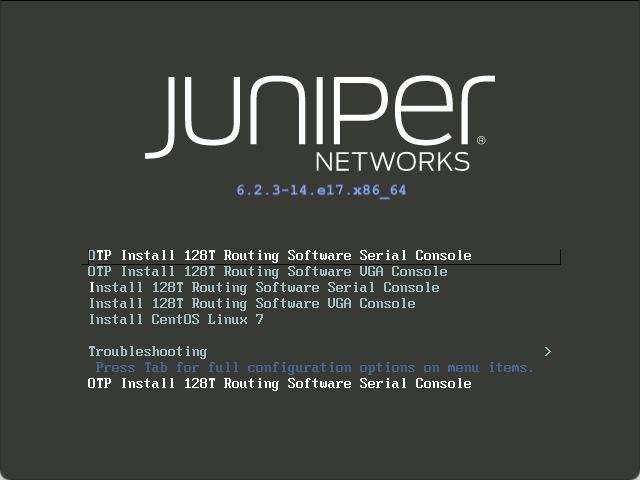
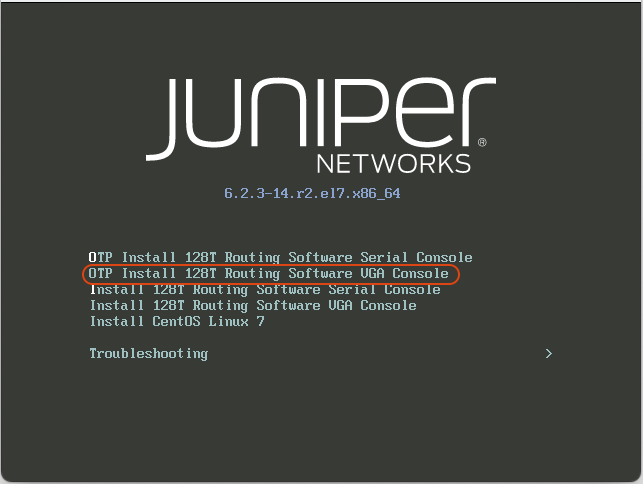
draft versions of install docs

diff --git a/docs/cc_fips_router_install.md b/docs/cc_fips_router_install.md
@@ -5,7 +5,7 @@ sidebar_label: Router Installation - FIPS
 
 This process assumes you have already created a bootable device using a USB. Instructions for downloading and creating a bootable device are available in [Downloading an SSR ISO](intro_downloading_iso.md) and [Creating a Bootable USB](intro_creating_bootable_usb.md).
 
-The steps in this section describe the *interactive router installation* from the packaged-based ISO. The section [Initialize the Router](#initialize-the-router-node) describes using the Initializer to configure the system as a Router after installing from the Interactive ISO.
+The steps in this section describe the OTP Installation with FIPS mode enabled, from the packaged-based ISO. 
 
 :::note
 The Conductor installation must be completed before installing a Session Smart Router or routers using the ISO. The same ISO is used for both installations.
@@ -17,11 +17,123 @@ The Conductor installation must be completed before installing a Session Smart R
 - Verify that the boot priority of the USB drive is properly listed in the system BIOS.
 - Local console connectivity to the device/VM. 
 
-## FIPS Mode
+## OTP Router Installation
+
+The simplest deployment of the OTP solution is highly automated and leverages just two components, the Conductor and at least one SSR. For many customers, the SSR platform is ordered and delivered as a pre-integrated, off-the-shelf solution through the Juniper SSR partner network. An image leveraging QuickStart provisioning can also be deployed into a VM or cloud environment, though consideration must be made to the mechanism of injecting the file. Virtual environments may be better suited for cloud automation tools to assist in automated, dynamic deployment.
+
+The OTP installation process produces a Router installed with SSR software set to factory defaults. Upon completing the OTP installation process, the default behavior is to provision the device to be configured with a DHCP client on the first ethernet port and DHCP server listening on all other ports. A user then connects to the SSR via ethernet cable and use the QuickStart file generated by the Conductor to finalize the SSR configuration. After performing the QuickStart operation, the SSR will have connectivity to its Conductor and can download the latest configuration (if necessary) and begin operation. These defaults [can be changed](#quickstart-location) to suit your needs.
+
+## QuickStart Provisioning
+Basic configuration parameters are encoded within an encrypted file. For each node, a custom file can be exported from the Conductor and minimally contains the following configuration encoded parameters:
+- WAN IP address, subnet mask and gateway
+- Conductor IP address
+- Asset ID
+
+## Before you Begin
+
+Before beginning the Router installation, you must have a Conductor operationally deployed and reachable by the router.
+
+This diagram is one possible topology for a standalone SSR deployed at the edge of the network.
+
+![QuickStart network diagram](/img/intro_ztp_quickstart_network_diagram.png)
+
+Not all hardware has video support. Booting to the serial console 115200 baud is the default, and is automatically selected after 30 seconds. When using the serial console, the terminal size is 80x25 - anything smaller may result in abnormal navigation behavior.
+
+Selecting the wrong type of console (Serial or VGA) may result in garbled characters being displayed, and if left to continue will result in an incorrect installation. If the wrong console is selected, reboot the target system and select the correct line for the target hardware.
+
+#### SSR System via Serial Console
+
+Use this option when running on hardware with no video chipset. It uses `/dev/ttyS0` 115200 baud as the serial console for interacting with the installer. For serial console issues please refer to [Serial Console Troubleshooting](intro_installation_bootable_media.mdx#serial-console-troubleshooting).
+
+#### SSR System with VGA Console
+
+Use this option when running on hardware that has onboard graphics chipsets. This installs the SSR using the GUI installer.
+
+## Installation with FIPS Mode 
+
+To enable FIPS Enforcement and install the Router using the OTP workflow add the `fips=1` kernel option to the kernel command line during system installation as shown in the steps below. This ensures that key generation is done with FIPS approved algorithms and continuous monitoring tests in place.
+
+1. Use the up/down keys to highlight the desired install mode - use **OTP Install 128T Routing Software VGA Console**. 
+
+  ![Bios Install](/img/cc_fips_BIOSinstall_1.png)
+
+2. Press TAB to edit the configuration.
+
+3. Add `fips=1` to the end of the `vmlinuz` parameters.
+
+  ![FIPS Parameter](/img/ccfips_BIOSinstall_2.png)
+
+4. Press Enter to start the install. 
+
+### SSR Installation
+
+This installation process is an automated workflow which does not require user interaction after selecting and initiating the OTP menu option. The system will power off after installation.
+
+### Bootstrapping
+
+After the initial installation and poweroff, the system is generic - it has no specific configuration. Once the platform is started again, an automated script performs bootstrapping of the platform. This script is a single run service unit that executes **once** during the first bootup, and automatically performs the following steps:
+
+#### 1. Configure Hostname and Salt Minion Identifier
+
+The hostname and salt minion identifier are set to the same value during the bootstrapping process.
+
+If the system serial number is provisioned (seen by `dmidecode --string system-serial-number`) this value will be used. Otherwise use the first MAC address found in the format of: `mac-<address>`
+
+#### 2. Configure the SSR and Network Interfaces
+
+The Bootstrapper sets the SSR configuration via the QuickStart file found in one of the following locations:
+
+- The root of an attached USB drive. i.e. `/bootstrap.quickstart`. The USB drive MUST be named "BOOTSTRAP" in all caps.
+
+- In `/etc/128technology/bootstrap.quickstart`.
+
+If no file source is present in either location, the Bootstrapper executes HTTP GET requests to the following endpoints to download the QuickStart File from a server. The REST response is explained in [REST details](#quickstart-file-via-rest).
+    1. `http://quickstart.128t-bootstrap.local/quickstart/<identifier>`
+    2. `http://192.168.128.128/quickstart/<identifier>`
+
+The `<identifier>` is the minion-id as determined by the algorithm discussed in [Configure Hostname and Salt Minion Identifier](#configure-hostname-and-salt-minion-identifier). Typically, it is the system serial number.
+
+If none of the above are successful, the OTP defaults are used. This configures the DHCP client on the first ethernet port and a DHCP server listening on all other ports.
+
+#### 3. Enable the SSR and Salt-Minion Service
+
+The quickstart file configures and enables the SSR and the associated salt-minion service.
+
+#### 4. Write a Result Report
+
+Once the platform is rebooted after bootstrapping, the bootstrap validation report can be found at the root filesystem (`/root/128T-bootstrap.txt`) containing details about the steps taken. The `/root/128T-bootstrap.json` file contains the same information in JSON format. The report contains a message that includes additional details for each step.
+
+Shown below is the location of the bootstrap report as well as an example of the contents.
+```
+[root@sn123456789 ~]# cat /root/128T-bootstrap.txt
++--------------------+--------+---------------------------------+
+| Label              | Result | Message                         |
++--------------------+--------+---------------------------------+
+| Minion ID          | True   | mac-000000                      |
+| Hostname           | True   | mac-000000                      |
+| Clock Sync         | True   |                                 |
+| Initialize 128T    | True   | node.Router                     |
+| Enable 128T        | True   |                                 |
+| Enable salt-minion | True   |                                 |
+| Factory Defaults   | True   | http://192.168.0.100/quickstart |
+| Ifgcfg files       | True   |                                 |
++--------------------+--------+---------------------------------+
+```
+
+#### 5. Reboot
+
+After reboot, the SSR service will be configured and running.
+
+:::info
+It is important to note that after the OS installation the dhclient is configured across all network interfaces until the platform has completed Bootstrapping.
+:::
+
+
+<!---## FIPS Mode
 
 Use this process to install a FIPS-compliant SSR Conductor. 
 
-To enable FIPS Enforcement for SSR software version 6.2.3-14R2, add the `fips=1` kernel option  to the kernel command line during system installation as shown in the steps below. This ensures that key generation is done with FIPS approved algorithms and continuous monitoring tests in place.
+To enable FIPS Enforcement for SSR software version 6.2.3-14R2, add the `fips=1` kernel option to the kernel command line during system installation as shown in the steps below. This ensures that key generation is done with FIPS approved algorithms and continuous monitoring tests in place.
 
 
 Use the following procedure to enable FIPS enforcement.
@@ -101,4 +213,5 @@ The SSR Initializer tunes your operating system, prepares the platform to run th
 
   :::note
   A system reboot is required.
-  :::
+  :::---->
+

diff --git a/docs/cc_fips_conductor_install.md b/docs/cc_fips_conductor_install.md
@@ -25,7 +25,7 @@ Upon boot, the following screen is displayed. The default selection is booting t
 
 To install using the Interactive Installation, use the arrow keys to select either `Install 128T Routing Software Serial Console` or **`Install 128T Routing Software VGA Console`**. As noted earlier, this guide describes the Conductor installation process using the Interactive Installation, specifically using the VGA console.
 
-![VGA Boot with Interactive Install](/img/cc_install_select_interactive.png)
+![VGA Boot with Interactive Install](/img/cc_install_conductor_interactive.png)
 
 :::note
 Because not all hardware has video support, booting to the serial console 115200 baud is the default, and is automatically selected after 30 seconds. When using the serial console, the terminal size is 80x25 - anything smaller may result in abnormal navigation behavior.
@@ -37,8 +37,6 @@ Selecting the wrong type of console (Serial or VGA) may result in garbled charac
 
 Use this option when running on hardware with no video chipset. It uses `/dev/ttyS0` 115200 baud as the serial console for interacting with the installer. 
 
-![Serial Install Selection](/img/install_select_interactive2.png)
-
 For serial console issues please refer to [Serial Console Troubleshooting](ts_serial_console_tsing.md).
 
 #### Install via VGA Console
@@ -49,16 +47,11 @@ The procedure that follows here is the **Interactive Install on the VGA Console*
 
 ## FIPS Mode
 
-Use this process to install a FIPS-compliant SSR Conductor. 
-
 To enable FIPS Enforcement for SSR software version 6.2.3-14R2, add the `fips=1` kernel option  to the kernel command line during system installation as shown in the steps below. This ensures that key generation is done with FIPS approved algorithms and continuous monitoring tests in place.
-
-
-Use the following procedure to enable FIPS enforcement.
 
 1. Use up/down keys to highlight the desired install mode. 
 
-  ![Bios Install](/img/cc_fips_BIOSinstall_1.png)
+  ![Bios Install](/img/cc_install_conductor_interactive.png)
 
 2. Press TAB to edit the configuration.
 
@@ -66,7 +59,19 @@ Use the following procedure to enable FIPS enforcement.
 
   ![FIPS Parameter](/img/ccfips_BIOSinstall_2.png)
 
-4. Press Enter to start the install. 
+4. Press Enter to start the install.
+
+### Serial Console
+
+1. Use up/down keys to highlight the desired install mode. 
+
+  ![Serial Install Selection](/img/install_serial_conductor_interactive1.png)
+
+2. For FIPS press `e` to edit and append `fips=1`.
+
+  ![FIPS Parameter](/img/cc_fips_serial_conductor.png)
+
+3. Press Enter to start the install. 
 
 ## Conductor Installation 
 

diff --git a/docs/cc_fips_intro.md b/docs/cc_fips_intro.md
@@ -10,11 +10,11 @@ The focus of this document is to provide the required configuration steps to ins
 For compliance, the following considerations must be made:
 - All installation and configuration procedures must be performed from the PCLI; use of the GUI is not part of the approved use case.
 - FIPS mode must be enabled **during installation**.
-- Only the OTP Installation and upgrade processes have been tested for compliance. Use of other methods of install or upgrade do not fit with the compliance model. 
+- Only the OTP Router Installation and upgrade processes have been tested for compliance. Use of other methods for installing or upgrading a router do not fit with the compliance model. 
 - When installing a router, the [IPv4 Option Filter](cc_fips_sec_firewall_filtering.md#ipv4-option-filtering) must be set to `drop-all`.
 - When installing a router, the [ICMP Session Match](cc_fips_sec_firewall_filtering.md#from-the-command-line) must be set to `identifier-and-type`.
-- Configuring the TCP Half-Open Connections Limit for firewall.
-- Configuring the umber of permitted login attempts per user.
+- Configure the [TCP Half-Open Connections Limit](cc_fips_sec_firewall_filtering.md#tcp-half-open-connection-limit) for firewall.
+- Configure the number of [permitted login attempts](config_access_mgmt.md#limiting-login-attempts) per user.
 
 For the compliant installation process and configuration parameters please refer to the specific [Conductor](cc_fips_conductor_install.md) or [Router](cc_fips_router_install.md) Installation and Configuration procedure.
 
@@ -36,9 +36,8 @@ Installation of the SSR network devices should follow the following high-level p
 Installation is done from the SSR ISOs, typically from a bootable image on a flash drive or disk. The install process is as follows:
 - [Download the OTP ISO](intro_downloading_iso.md)
 - [Create Bootable Media](intro_creating_bootable_usb.md)
-- [Perform the Interactive ISO installation](intro_installation_bootable_media.mdx) 
-- [Install a Conductor](install_conductor_overview.md)
+- [Install a Conductor](cc_fips_conductor_install.md)
 - [Create the Router configuration with the Conductor](intro_basic_router_config.md) or [Import a Configuration](single_conductor_config.md)
-- [Install the Router using the OTP ISO](intro_otp_iso_install.mdx) or [Install the Router using the Interactive Installation](intro_installation_bootable_media.mdx)
+- [Install the Router using the OTP ISO](cc_fips_router_install.md) 
 
 

diff --git a/docs/cc_fips_titlepage.md b/docs/cc_fips_titlepage.md
@@ -8,3 +8,7 @@ This guide provides installation and configuration information for using SSR Con
 Supported Software version: 
 - Version 6.2.3-14-R2
 - Release Date: December 15, 2024
+
+Supported Hardware (must be upgraded to run Software version 6.2.3-14-R2):
+- SSR 120, SSR 130
+- SSR 1200, SSR 1300, SSR 1400, SSR 1500
